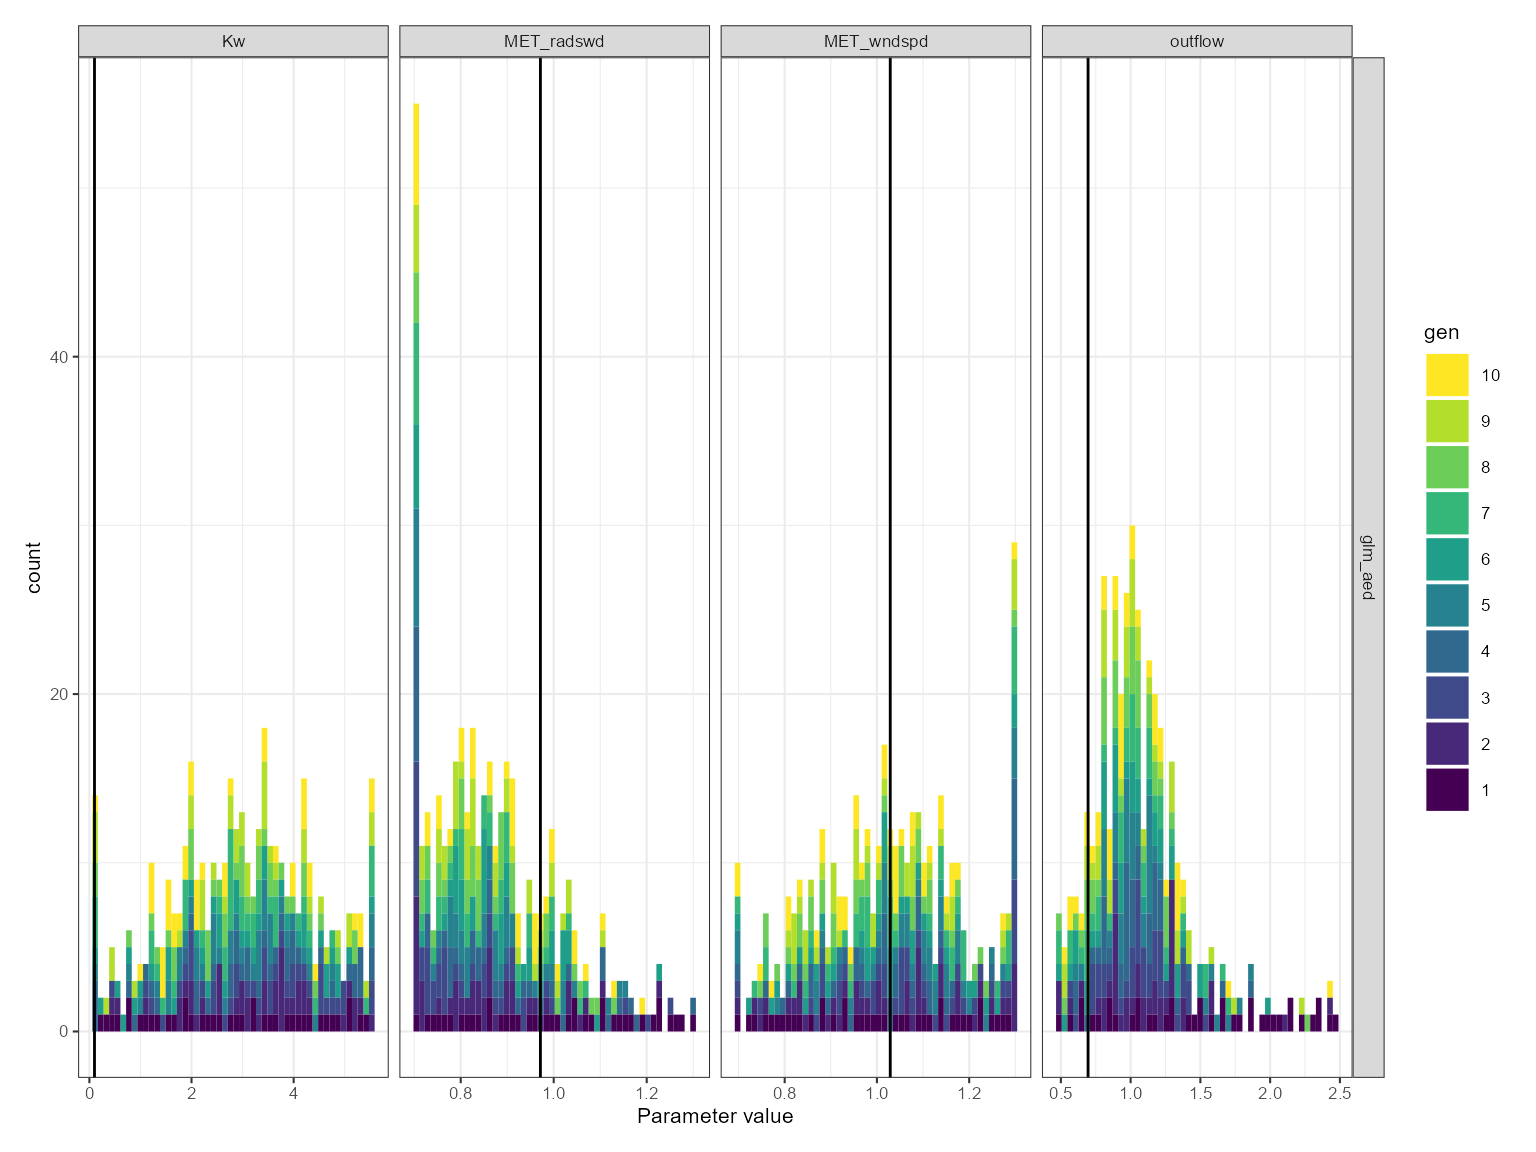
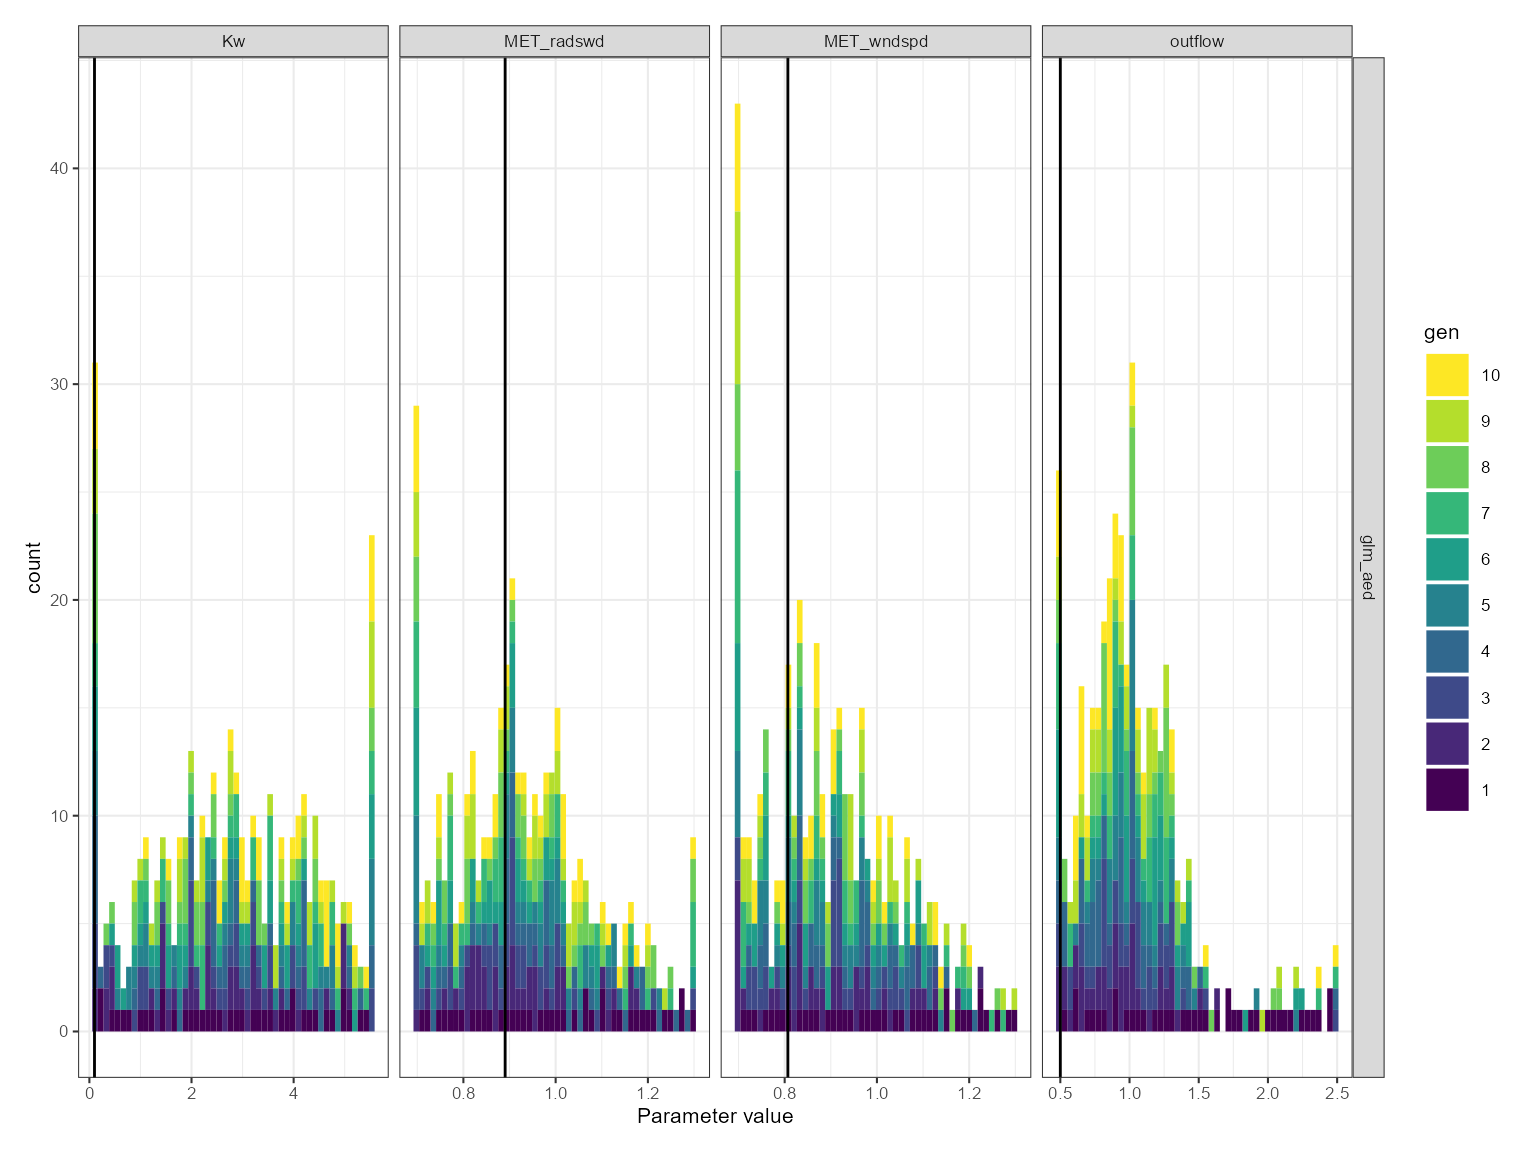
Deploying to gh-pages from @ limnotrack/aemetools@1a7ac5bba8ebe0de08d44afd5460b39e34bf334b 🚀

Changed region(s): [[0.0625, 0.0625, 0.875, 0.9375], [0.8125, 0.9375, 0.8438, 0.9688], [0.2812, 0.9375, 0.3125, 0.9688]]

diff --git a/articles/calibrate-aeme.html b/articles/calibrate-aeme.html
@@ -121,9 +121,9 @@ make sure the current model setup is working.</p>
 <code class="sourceCode R"><span><span class="va">aeme_data</span> <span class="op">&lt;-</span> <span class="fu"><a href="https://rdrr.io/pkg/AEME/man/run_aeme.html" class="external-link">run_aeme</a></span><span class="op">(</span>aeme_data <span class="op">=</span> <span class="va">aeme_data</span>, model <span class="op">=</span> <span class="va">model</span>,</span>
 <span>                      verbose <span class="op">=</span> <span class="cn">FALSE</span>, mod_ctrls <span class="op">=</span> <span class="va">mod_ctrls</span>,</span>
 <span>                      path <span class="op">=</span> <span class="va">path</span><span class="op">)</span></span>
-<span><span class="co">#&gt; Running models... (Have you tried parallelizing?) [2023-11-06 23:20:03.922521]</span></span>
-<span><span class="co">#&gt; GLM-AED run successful! [2023-11-06 23:20:04.792283]</span></span>
-<span><span class="co">#&gt; Model run complete![2023-11-06 23:20:04.793582]</span></span>
+<span><span class="co">#&gt; Running models... (Have you tried parallelizing?) [2023-11-07 01:48:42.164625]</span></span>
+<span><span class="co">#&gt; GLM-AED run successful! [2023-11-07 01:48:43.037365]</span></span>
+<span><span class="co">#&gt; Model run complete![2023-11-07 01:48:43.038458]</span></span>
 <span><span class="co">#&gt; Retrieving and formatting temp for model glm_aed</span></span>
 <span><span class="co">#&gt; Retrieving and formatting salt for model glm_aed</span></span>
 <span><span class="fu"><a href="https://rdrr.io/r/graphics/plot.default.html" class="external-link">plot</a></span><span class="op">(</span><span class="va">aeme_data</span><span class="op">)</span></span></code></pre></div>
@@ -228,9 +228,9 @@ but the model output is generate within the lake folder.</p>
 <div class="sourceCode" id="cb7"><pre class="downlit sourceCode r">
 <code class="sourceCode R"><span><span class="fu"><a href="../reference/run_aeme_param.html">run_aeme_param</a></span><span class="op">(</span>aeme_data <span class="op">=</span> <span class="va">aeme_data</span>, param <span class="op">=</span> <span class="va">aeme_parameters</span>,</span>
 <span>                 model <span class="op">=</span> <span class="va">model</span>, path <span class="op">=</span> <span class="va">path</span>, mod_ctrls <span class="op">=</span> <span class="va">mod_ctrls</span><span class="op">)</span></span>
-<span><span class="co">#&gt; Running models... (Have you tried parallelizing?) [2023-11-06 23:20:09.014918]</span></span>
-<span><span class="co">#&gt; GLM-AED run successful! [2023-11-06 23:20:09.754629]</span></span>
-<span><span class="co">#&gt; Model run complete![2023-11-06 23:20:09.755469]</span></span></code></pre></div>
+<span><span class="co">#&gt; Running models... (Have you tried parallelizing?) [2023-11-07 01:48:47.209286]</span></span>
+<span><span class="co">#&gt; GLM-AED run successful! [2023-11-07 01:48:47.952638]</span></span>
+<span><span class="co">#&gt; Model run complete![2023-11-07 01:48:47.953511]</span></span></code></pre></div>
 </div>
 <div class="section level2">
 <h2 id="calibration-setup">Calibration setup<a class="anchor" aria-label="anchor" href="#calibration-setup"></a>
@@ -364,79 +364,79 @@ values.</p>
 <span>                   param <span class="op">=</span> <span class="va">aeme_parameters</span>, model <span class="op">=</span> <span class="va">model</span>,</span>
 <span>                   mod_ctrls <span class="op">=</span> <span class="va">mod_ctrls</span>, FUN <span class="op">=</span> <span class="va">fit</span>, ctrl <span class="op">=</span> <span class="va">ctrl</span>,</span>
 <span>                   vars_sim <span class="op">=</span> <span class="va">vars_sim</span>, weights <span class="op">=</span> <span class="va">weights</span><span class="op">)</span></span>
-<span><span class="co">#&gt; Extracting indices for modelled variables [2023-11-06 23:20:10.172192]</span></span>
-<span><span class="co">#&gt; Complete! [2023-11-06 23:20:11.20497]</span></span>
+<span><span class="co">#&gt; Extracting indices for modelled variables [2023-11-07 01:48:48.463362]</span></span>
+<span><span class="co">#&gt; Complete! [2023-11-07 01:48:49.3877]</span></span>
 <span><span class="co">#&gt; Calibrating in parallel using 1 cores...</span></span>
-<span><span class="co">#&gt; Starting generation 1/10, 40 members. [2023-11-06 23:20:11.532571]</span></span>
+<span><span class="co">#&gt; Starting generation 1/10, 40 members. [2023-11-07 01:48:49.720598]</span></span>
 <span><span class="co">#&gt;        light.Kw MET_wndspd MET_radswd outflow</span></span>
-<span><span class="co">#&gt; mean      2.806     1.0000     0.9995  1.5020</span></span>
-<span><span class="co">#&gt; median    2.820     0.9983     1.0020  1.4980</span></span>
-<span><span class="co">#&gt; sd        1.578     0.1760     0.1758  0.5862</span></span>
-<span><span class="co">#&gt; Best fit: 3.023 (sd: 327.212)</span></span>
-<span><span class="co">#&gt;             Parameters: [5.138, 1.289, 0.7, 1.064]</span></span>
+<span><span class="co">#&gt; mean      2.802     1.0000     1.0010  1.5000</span></span>
+<span><span class="co">#&gt; median    2.796     0.9945     0.9992  1.4870</span></span>
+<span><span class="co">#&gt; sd        1.576     0.1752     0.1753  0.5851</span></span>
+<span><span class="co">#&gt; Best fit: 2.671 (sd: 327.713)</span></span>
+<span><span class="co">#&gt;             Parameters: [0.452, 0.918, 0.817, 0.603]</span></span>
 <span><span class="co">#&gt; Survival rate: 1</span></span>
-<span><span class="co">#&gt; Starting generation 2/10, 40 members. [2023-11-06 23:20:52.844285]</span></span>
+<span><span class="co">#&gt; Starting generation 2/10, 40 members. [2023-11-07 01:49:31.729089]</span></span>
 <span><span class="co">#&gt;        light.Kw MET_wndspd MET_radswd outflow</span></span>
-<span><span class="co">#&gt; mean      3.293     1.0330     0.8555  1.1140</span></span>
-<span><span class="co">#&gt; median    3.470     1.0660     0.8440  1.0800</span></span>
-<span><span class="co">#&gt; sd        1.261     0.1779     0.1286  0.3756</span></span>
-<span><span class="co">#&gt; Best fit: 2.8993 (sd: 212.24)</span></span>
+<span><span class="co">#&gt; mean      2.484     0.8858     0.9167  0.9072</span></span>
+<span><span class="co">#&gt; median    2.450     0.8716     0.9022  0.9101</span></span>
+<span><span class="co">#&gt; sd        1.397     0.1420     0.1206  0.2855</span></span>
+<span><span class="co">#&gt; Best fit: 2.3511 (sd: 129.04)</span></span>
 <span><span class="co">#&gt; Survival rate: 1</span></span>
-<span><span class="co">#&gt; Starting generation 3/10, 40 members. [2023-11-06 23:21:35.320165]</span></span>
+<span><span class="co">#&gt; Starting generation 3/10, 40 members. [2023-11-07 01:50:17.106151]</span></span>
 <span><span class="co">#&gt;        light.Kw MET_wndspd MET_radswd outflow</span></span>
-<span><span class="co">#&gt; mean      3.330     1.0740     0.8246  1.0490</span></span>
-<span><span class="co">#&gt; median    3.451     1.0620     0.7690  1.0540</span></span>
-<span><span class="co">#&gt; sd        1.276     0.1555     0.1384  0.2347</span></span>
-<span><span class="co">#&gt; Best fit: 2.8993 (sd: 172.97)</span></span>
+<span><span class="co">#&gt; mean      2.426     0.8922     0.9038  1.0130</span></span>
+<span><span class="co">#&gt; median    2.412     0.9092     0.9022  1.0090</span></span>
+<span><span class="co">#&gt; sd        1.455     0.1204     0.1311  0.3486</span></span>
+<span><span class="co">#&gt; Best fit: 2.3511 (sd: 156.2)</span></span>
 <span><span class="co">#&gt; Survival rate: 1</span></span>
-<span><span class="co">#&gt; Starting generation 4/10, 40 members. [2023-11-06 23:22:17.894651]</span></span>
+<span><span class="co">#&gt; Starting generation 4/10, 40 members. [2023-11-07 01:51:01.240084]</span></span>
 <span><span class="co">#&gt;        light.Kw MET_wndspd MET_radswd outflow</span></span>
-<span><span class="co">#&gt; mean      3.133     1.0300     0.8777  1.0400</span></span>
-<span><span class="co">#&gt; median    3.124     1.0170     0.8379  1.0030</span></span>
-<span><span class="co">#&gt; sd        1.606     0.1615     0.1597  0.2565</span></span>
-<span><span class="co">#&gt; Best fit: 2.3503 (sd: 178.2)</span></span>
+<span><span class="co">#&gt; mean      2.841     0.9377     0.9657  0.9461</span></span>
+<span><span class="co">#&gt; median    2.896     0.9350     0.9479  0.9276</span></span>
+<span><span class="co">#&gt; sd        1.598     0.1263     0.1497  0.3600</span></span>
+<span><span class="co">#&gt; Best fit: 2.3511 (sd: 182.57)</span></span>
 <span><span class="co">#&gt; Survival rate: 1</span></span>
-<span><span class="co">#&gt; Starting generation 5/10, 40 members. [2023-11-06 23:23:00.616259]</span></span>
+<span><span class="co">#&gt; Starting generation 5/10, 40 members. [2023-11-07 01:51:46.285869]</span></span>
 <span><span class="co">#&gt;        light.Kw MET_wndspd MET_radswd outflow</span></span>
-<span><span class="co">#&gt; mean      2.891     1.0680     0.8591  1.0830</span></span>
-<span><span class="co">#&gt; median    2.922     1.0860     0.8511  1.0030</span></span>
-<span><span class="co">#&gt; sd        1.206     0.1498     0.1238  0.2862</span></span>
-<span><span class="co">#&gt; Best fit: 2.3503 (sd: 229.14)</span></span>
+<span><span class="co">#&gt; mean      2.808     0.8780     0.9238  1.0520</span></span>
+<span><span class="co">#&gt; median    2.771     0.8655     0.9310  1.0280</span></span>
+<span><span class="co">#&gt; sd        1.726     0.1207     0.1465  0.3222</span></span>
+<span><span class="co">#&gt; Best fit: 2.3221 (sd: 194.38)</span></span>
 <span><span class="co">#&gt; Survival rate: 1</span></span>
-<span><span class="co">#&gt; Starting generation 6/10, 40 members. [2023-11-06 23:23:43.34565]</span></span>
+<span><span class="co">#&gt; Starting generation 6/10, 40 members. [2023-11-07 01:52:29.28404]</span></span>
 <span><span class="co">#&gt;        light.Kw MET_wndspd MET_radswd outflow</span></span>
-<span><span class="co">#&gt; mean      2.861     1.0230     0.8750  1.0060</span></span>
-<span><span class="co">#&gt; median    2.898     1.0240     0.8552  0.9906</span></span>
-<span><span class="co">#&gt; sd        1.488     0.1602     0.1218  0.3048</span></span>
-<span><span class="co">#&gt; Best fit: 2.3503 (sd: 178)</span></span>
+<span><span class="co">#&gt; mean      2.613     0.8827     0.8877  1.0730</span></span>
+<span><span class="co">#&gt; median    2.704     0.8718     0.8791  0.9816</span></span>
+<span><span class="co">#&gt; sd        1.633     0.1466     0.1436  0.3964</span></span>
+<span><span class="co">#&gt; Best fit: 2.3221 (sd: 223.36)</span></span>
 <span><span class="co">#&gt; Survival rate: 1</span></span>
-<span><span class="co">#&gt; Starting generation 7/10, 40 members. [2023-11-06 23:24:26.817658]</span></span>
+<span><span class="co">#&gt; Starting generation 7/10, 40 members. [2023-11-07 01:53:12.048208]</span></span>
 <span><span class="co">#&gt;        light.Kw MET_wndspd MET_radswd outflow</span></span>
-<span><span class="co">#&gt; mean      2.927     1.0410     0.8422  1.0040</span></span>
-<span><span class="co">#&gt; median    2.790     1.0230     0.8347  1.0030</span></span>
-<span><span class="co">#&gt; sd        1.415     0.1717     0.1082  0.2979</span></span>
-<span><span class="co">#&gt; Best fit: 2.32 (sd: 189.54)</span></span>
+<span><span class="co">#&gt; mean      3.093     0.8836     0.9287  1.0520</span></span>
+<span><span class="co">#&gt; median    3.227     0.8599     0.8830  1.0140</span></span>
+<span><span class="co">#&gt; sd        1.504     0.1683     0.1770  0.4137</span></span>
+<span><span class="co">#&gt; Best fit: 2.3221 (sd: 185.29)</span></span>
 <span><span class="co">#&gt; Survival rate: 1</span></span>
-<span><span class="co">#&gt; Starting generation 8/10, 40 members. [2023-11-06 23:25:10.177713]</span></span>
+<span><span class="co">#&gt; Starting generation 8/10, 40 members. [2023-11-07 01:53:55.539859]</span></span>
 <span><span class="co">#&gt;        light.Kw MET_wndspd MET_radswd outflow</span></span>
-<span><span class="co">#&gt; mean      2.913     0.9939     0.8580  0.9660</span></span>
-<span><span class="co">#&gt; median    3.037     0.9816     0.8345  0.9622</span></span>
-<span><span class="co">#&gt; sd        1.270     0.1509     0.1176  0.2952</span></span>
-<span><span class="co">#&gt; Best fit: 2.32 (sd: 106.97)</span></span>
+<span><span class="co">#&gt; mean      2.298     0.9052     0.9535  1.0530</span></span>
+<span><span class="co">#&gt; median    2.079     0.8888     0.9311  1.0230</span></span>
+<span><span class="co">#&gt; sd        1.635     0.1419     0.1689  0.3536</span></span>
+<span><span class="co">#&gt; Best fit: 2.3221 (sd: 212.16)</span></span>
 <span><span class="co">#&gt; Survival rate: 1</span></span>
-<span><span class="co">#&gt; Starting generation 9/10, 40 members. [2023-11-06 23:25:53.740198]</span></span>
+<span><span class="co">#&gt; Starting generation 9/10, 40 members. [2023-11-07 01:54:38.635759]</span></span>
 <span><span class="co">#&gt;        light.Kw MET_wndspd MET_radswd outflow</span></span>
-<span><span class="co">#&gt; mean      2.952     1.0120     0.8553  1.0560</span></span>
-<span><span class="co">#&gt; median    2.955     0.9967     0.8267  0.9961</span></span>
-<span><span class="co">#&gt; sd        1.555     0.1488     0.1085  0.3323</span></span>
-<span><span class="co">#&gt; Best fit: 2.32 (sd: 209.71)</span></span>
+<span><span class="co">#&gt; mean      3.095     0.9102     0.9133  1.0380</span></span>
+<span><span class="co">#&gt; median    3.056     0.9379     0.9252  1.0210</span></span>
+<span><span class="co">#&gt; sd        1.622     0.1756     0.1434  0.3924</span></span>
+<span><span class="co">#&gt; Best fit: 2.3221 (sd: 212.36)</span></span>
 <span><span class="co">#&gt; Survival rate: 1</span></span>
-<span><span class="co">#&gt; Starting generation 10/10, 40 members. [2023-11-06 23:26:36.889395]</span></span>
+<span><span class="co">#&gt; Starting generation 10/10, 40 members. [2023-11-07 01:55:21.844218]</span></span>
 <span><span class="co">#&gt;        light.Kw MET_wndspd MET_radswd outflow</span></span>
-<span><span class="co">#&gt; mean      2.777     0.9943     0.8844  1.0080</span></span>
-<span><span class="co">#&gt; median    2.123     1.0180     0.8953  0.9364</span></span>
-<span><span class="co">#&gt; sd        1.477     0.1457     0.1323  0.3475</span></span>
-<span><span class="co">#&gt; Best fit: 2.32 (sd: 187.86)</span></span>
+<span><span class="co">#&gt; mean      3.391     0.8810     0.9351  0.9233</span></span>
+<span><span class="co">#&gt; median    3.276     0.8667     0.9289  0.8633</span></span>
+<span><span class="co">#&gt; sd        1.601     0.1384     0.1583  0.4165</span></span>
+<span><span class="co">#&gt; Best fit: 2.3221 (sd: 172.7)</span></span>
 <span><span class="co">#&gt; Survival rate: 1</span></span></code></pre></div>
 </div>
 <div class="section level2">

diff --git a/articles/download-era5.html b/articles/download-era5.html
@@ -75,15 +75,14 @@
 <h3 id="download-nz-point-meteorological-data">Download NZ point meteorological data<a class="anchor" aria-label="anchor" href="#download-nz-point-meteorological-data"></a>
 </h3>
 <p>Currently, there is <a href="https://cds.climate.copernicus.eu/cdsapp#!/dataset/reanalysis-era5-land" class="external-link">ERA5-Land
-data</a><br>
-(~9km grid spacing) archived for New Zealand (166.5/-46.6/178.6/-34.5)
-for the time period 1999-2022 with the main meteorological variables
-(air temperature, dewpoint temperature, wind u-vector at 10m, wind
-v-vector at 10m, total precipitation, snowfall, surface level pressure,
-downwelling shortwave radiation, downwelling longwave radiation)
-required to drive hydrological and hydrodynamic models. This can be
-easily downloaded using the example below. There is a
-<code>parallel</code> switch which allows you to use multiple cores on
+data</a> (~9km grid spacing) archived for New Zealand
+(166.5/-46.6/178.6/-34.5) for the time period 1999-2022 with the main
+meteorological variables (air temperature, dewpoint temperature, wind
+u-vector at 10m, wind v-vector at 10m, total precipitation, snowfall,
+surface level pressure, downwelling shortwave radiation, downwelling
+longwave radiation) required to drive hydrological and hydrodynamic
+models. This can be easily downloaded using the example below. There is
+a <code>parallel</code> switch which allows you to use multiple cores on
 your computer to speed up the download.</p>
 <div class="sourceCode" id="cb1"><pre class="downlit sourceCode r">
 <code class="sourceCode R"><span><span class="kw"><a href="https://rdrr.io/r/base/library.html" class="external-link">library</a></span><span class="op">(</span><span class="va"><a href="https://studious-enigma-z736ppg.pages.github.io/" class="external-link">aemetools</a></span><span class="op">)</span></span></code></pre></div>
@@ -95,8 +94,8 @@ your computer to speed up the download.</p>
 <span><span class="va">met</span> <span class="op">&lt;-</span> <span class="fu"><a href="../reference/get_era5_point.html">get_era5_point</a></span><span class="op">(</span>lat <span class="op">=</span> <span class="va">lat</span>, lon <span class="op">=</span> <span class="va">lon</span>, years <span class="op">=</span> <span class="fl">2000</span><span class="op">:</span><span class="fl">2001</span>,</span>
 <span>                      variables <span class="op">=</span> <span class="va">variables</span>, format <span class="op">=</span> <span class="st">"aeme"</span>, parallel <span class="op">=</span> <span class="cn">TRUE</span><span class="op">)</span></span>
 <span><span class="co">#&gt; Auto-refreshing stale OAuth token.</span></span>
-<span><span class="co">#&gt; Downloading ERA5 variables in parallel... [2023-11-06 23:27:34.248759]</span></span>
-<span><span class="co">#&gt; Finished downloading ERA5 variables! [2023-11-06 23:27:46.524655]</span></span>
+<span><span class="co">#&gt; Downloading ERA5 variables in parallel... [2023-11-07 01:56:20.459243]</span></span>
+<span><span class="co">#&gt; Finished downloading ERA5 variables! [2023-11-07 01:56:33.250232]</span></span>
 <span><span class="fu"><a href="https://rdrr.io/r/base/summary.html" class="external-link">summary</a></span><span class="op">(</span><span class="va">met</span><span class="op">)</span></span>
 <span><span class="co">#&gt;       Date              MET_tmpair       MET_pprain     </span></span>
 <span><span class="co">#&gt;  Min.   :2000-01-01   Min.   : 3.407   Min.   : 0.0000  </span></span>
